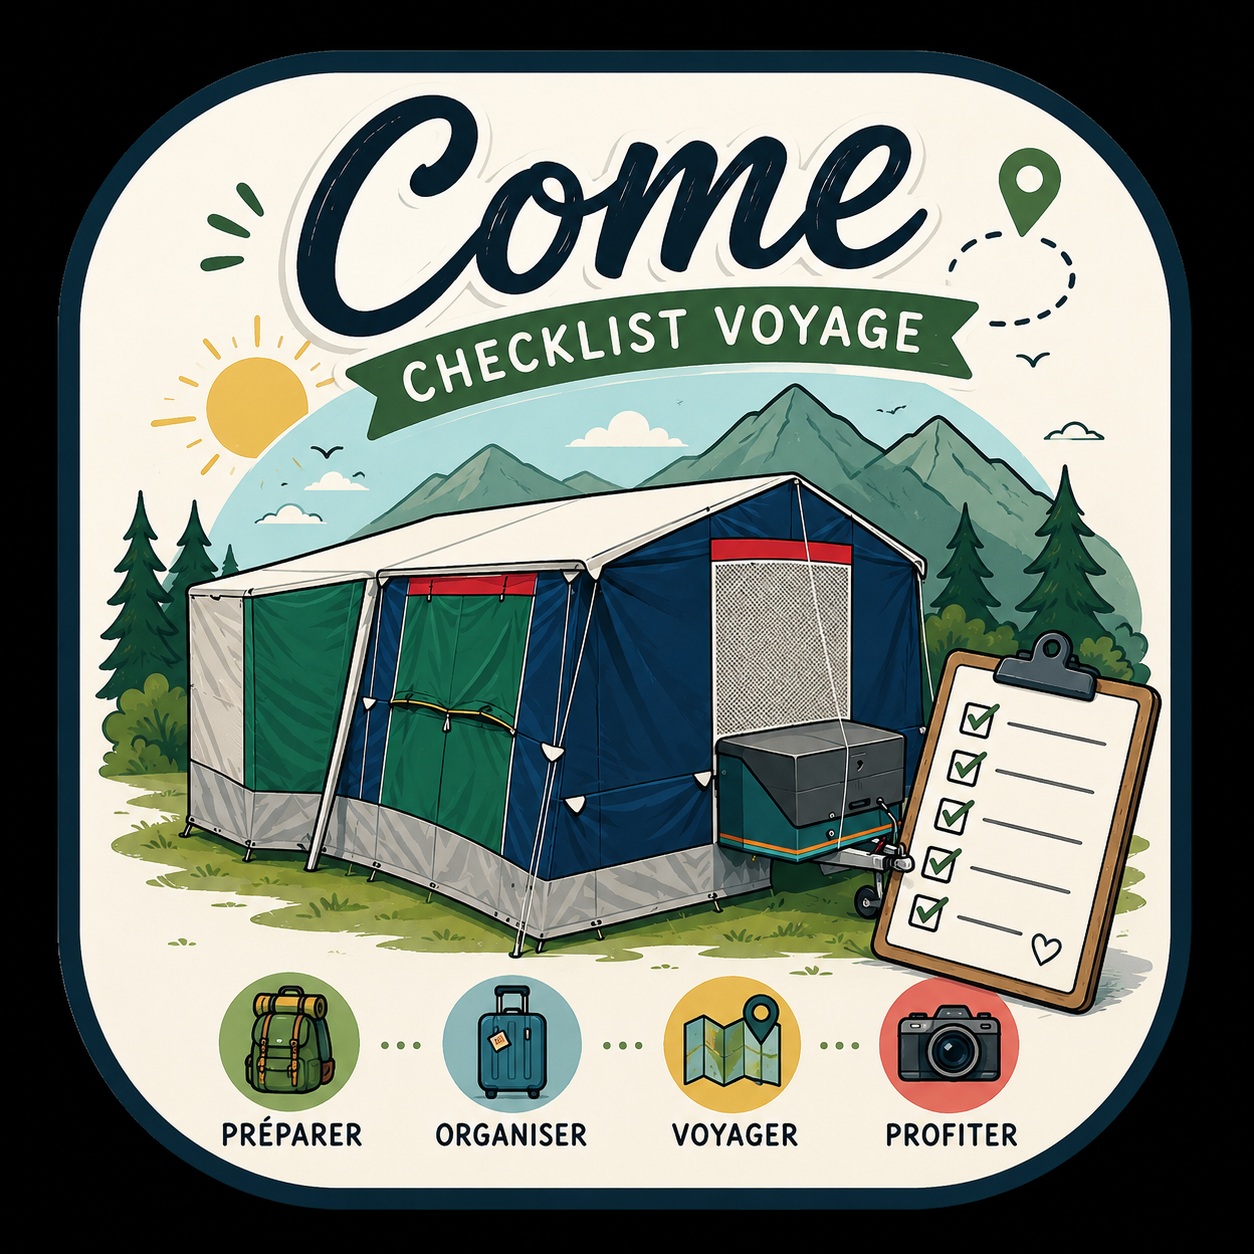
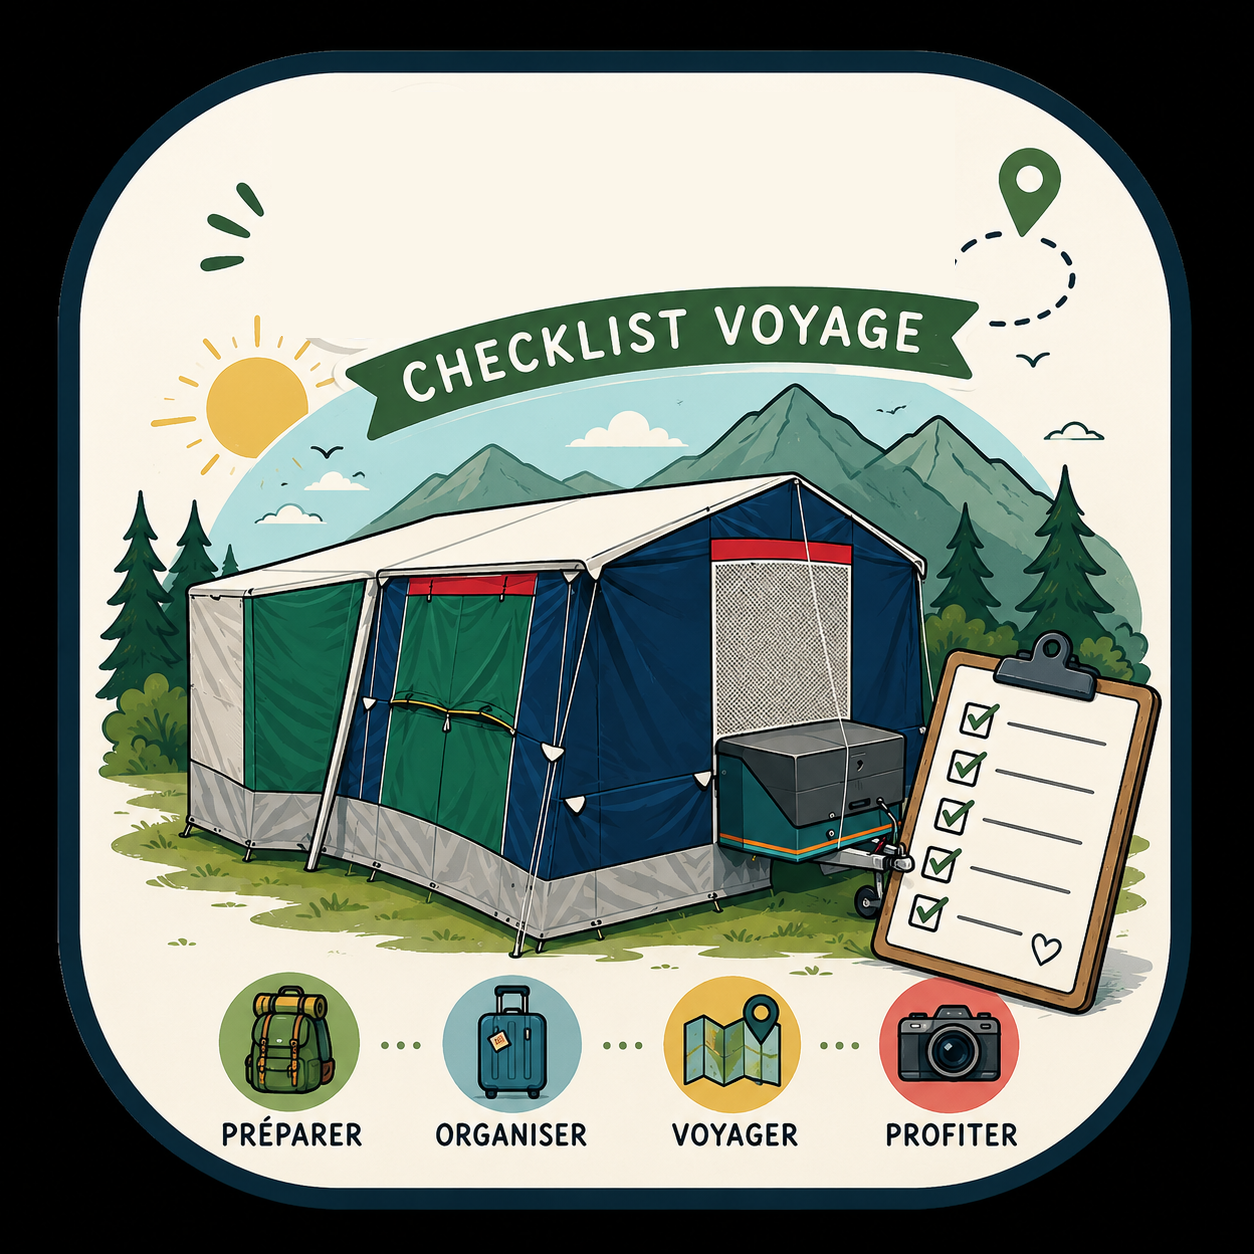
Retirer le mot « Come » de l'icône
Le titre calligraphié est effacé de l'illustration, le reste de la
vignette est conservé : bandeau « CHECKLIST VOYAGE », soleil, repère de
carte, traits verts, tente et presse-papiers.

- icons/source-original.png : image fournie, conservée intacte
- icons/source.png : version nettoyée servant à générer les icônes
- Effacement en deux passes : la zone du titre est repeinte avec le fond
  crème détecté, puis un balayage colonne par colonne supprime les
  descentes du « C » jusqu'au bord supérieur du bandeau, en épargnant
  les pixels verts (bandeau) et chauds (soleil)
- Tailles 512, 192, apple-touch 180 et maskable 512 régénérées
- Cache du service worker incrémenté (v3.8) pour que les appareils déjà
  équipés récupèrent la nouvelle icône

Version 3.8

Claude-Session: https://claude.ai/code/session_013wCpmtgvo3vt5CRixnrzGA

Changed region(s): [[0.2177, 0.0622, 0.7464, 0.2799]]

diff --git a/sw.js b/sw.js
@@ -3,7 +3,7 @@
    dernière version publiée quand il y a du réseau, et la dernière version
    consultée quand il n'y en a pas (utile au camping). */
 
-const CACHE = "checklist-vacances-v3.7";
+const CACHE = "checklist-vacances-v3.8";
 
 const ASSETS = [
   "./",

diff --git a/index.html b/index.html
@@ -567,7 +567,7 @@ const STYLE = [
   ["🧸","#FBDA8B","#96690A"]
 ];
 
-const VERSION = "3.7";
+const VERSION = "3.8";
 const VERSION_DATE = "26/07/2026";
 const KEY = "checklist_vacances_v1";
 
